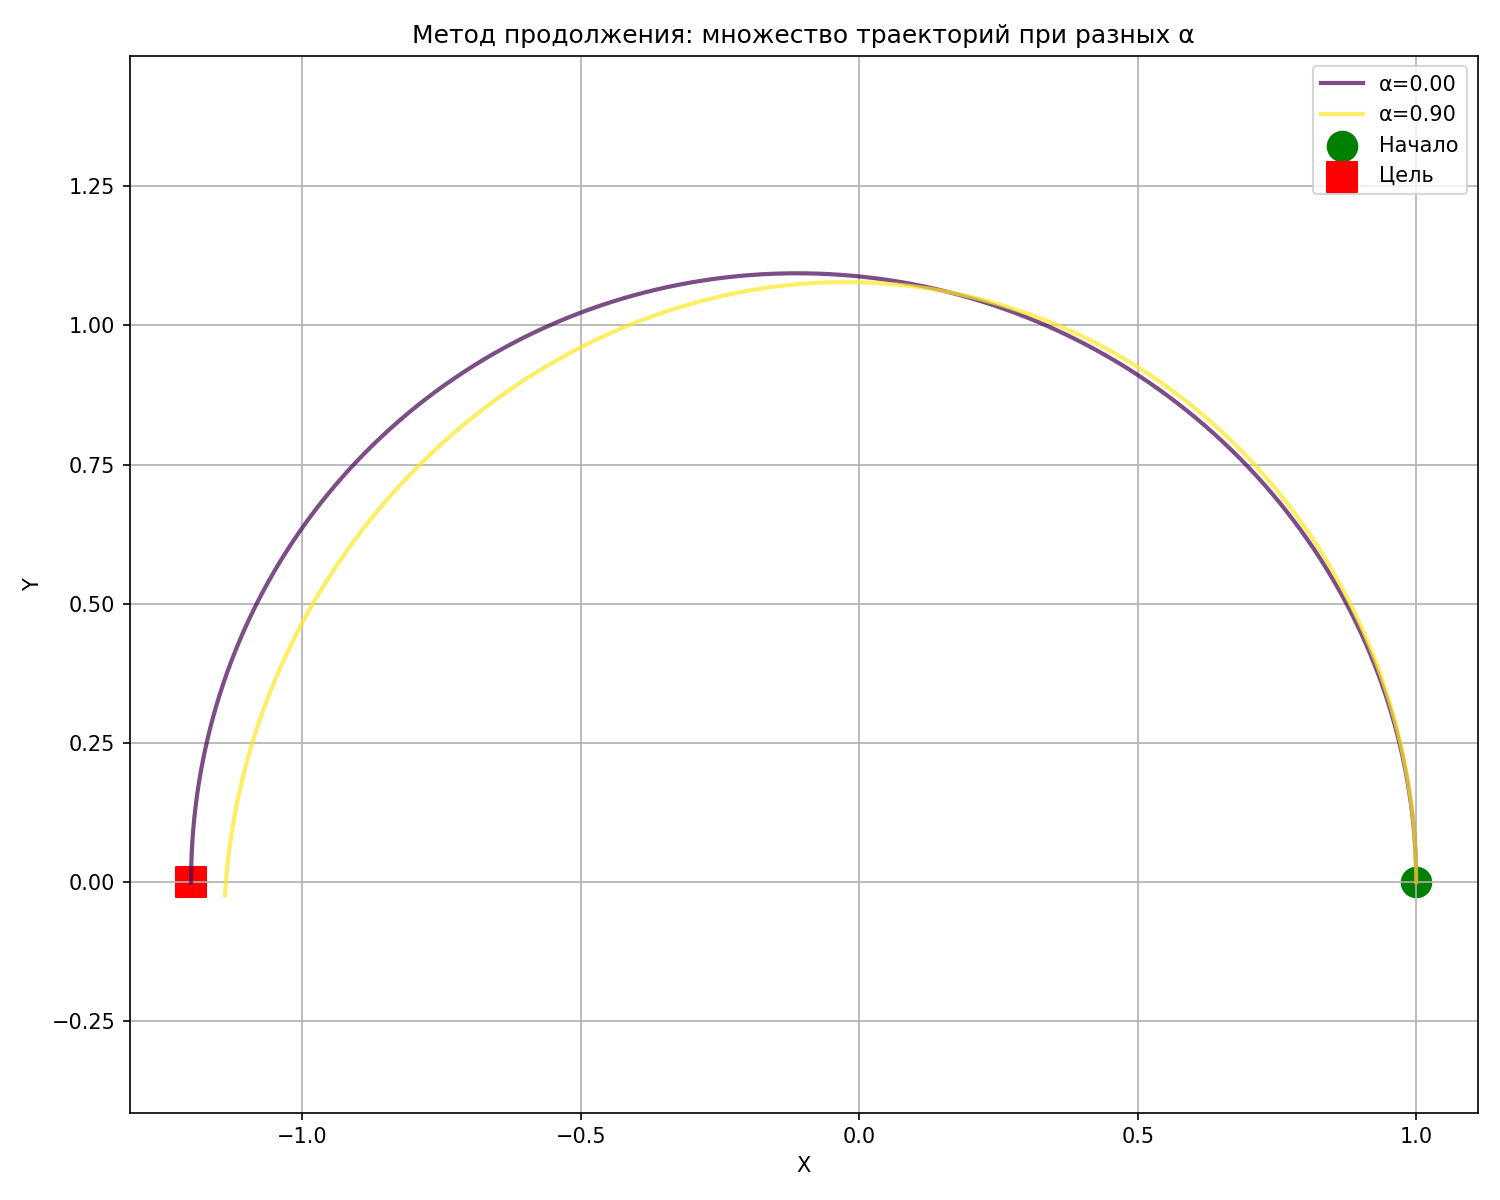
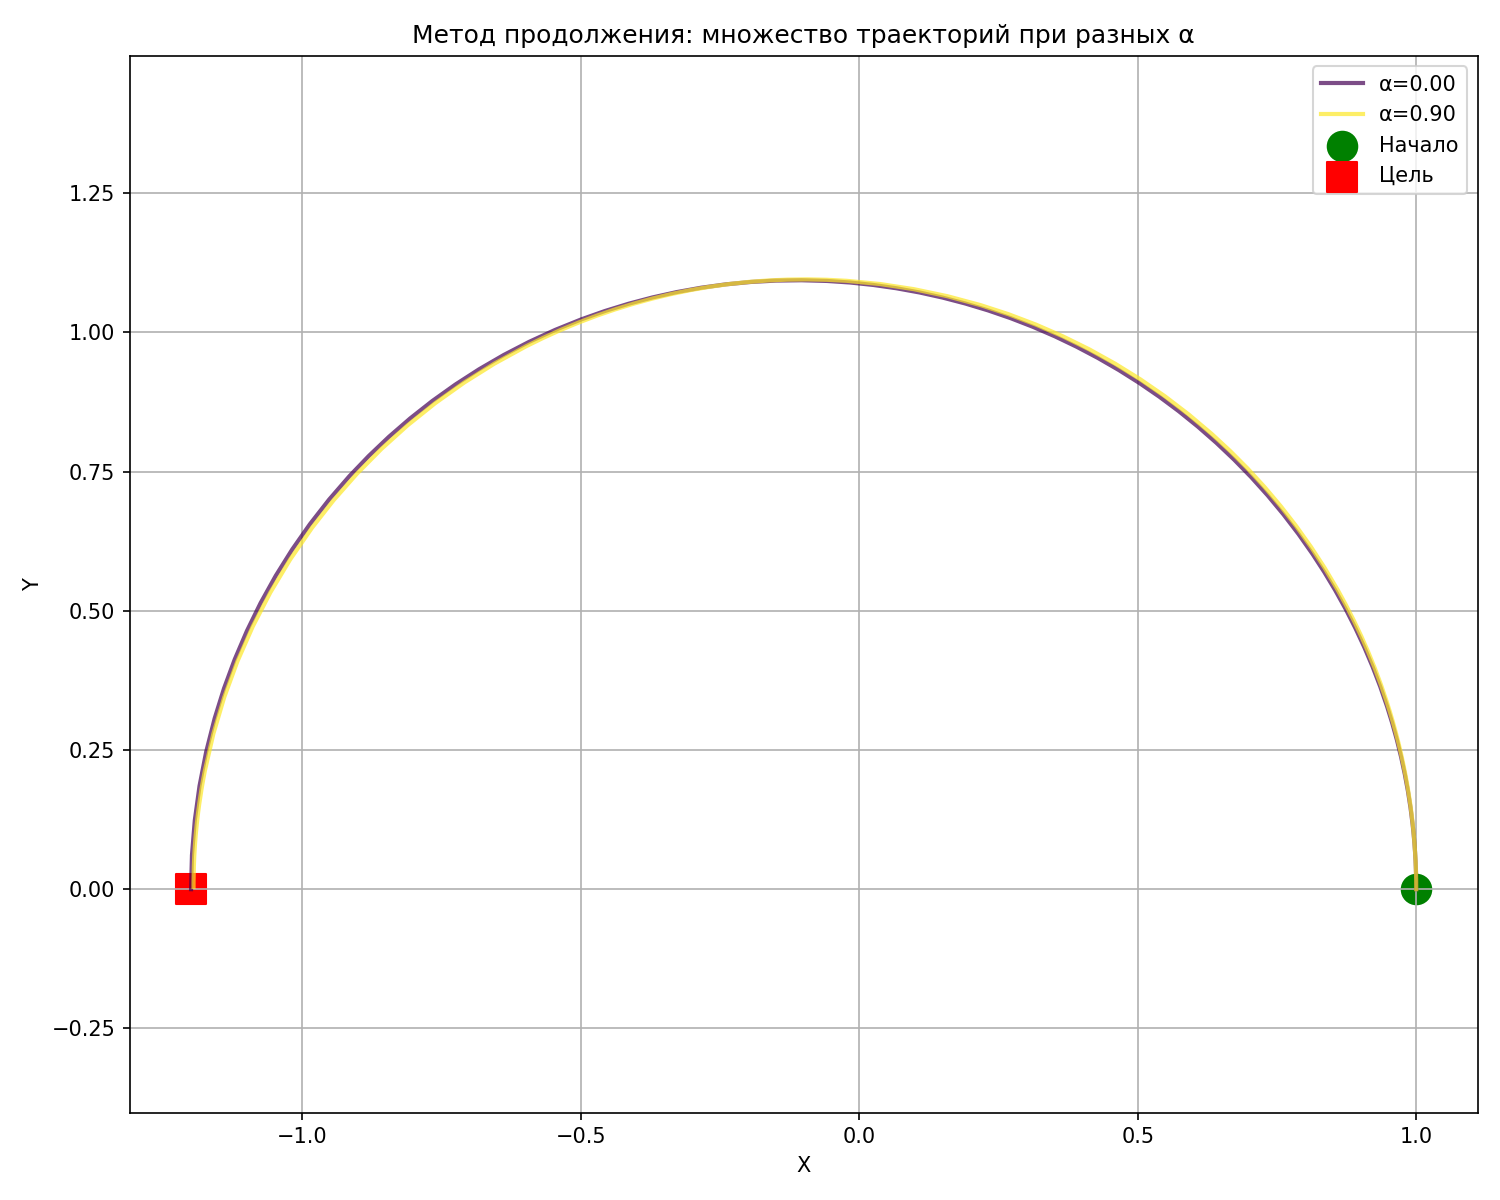
added new result_traj.py with new loss

diff --git a/result_traj.py b/result_traj.py
@@ -2,7 +2,7 @@ import numpy as np
 import math
 import logging
 from scipy.integrate import solve_ivp
-from scipy.optimize import minimize
+from scipy.optimize import minimize, least_squares
 import matplotlib.pyplot as plt
 from approximations import T_a, get_initial_adjoint
 
@@ -38,7 +38,7 @@ class OptimalControlSolver:
 
         elif self.func_type == 'mixed':
 
-            if self.alpha > 0.95: 
+            if self.alpha > 0.95:
                 return self.a_max * pv / pv_norm if pv_norm > 1e-12 else np.zeros(3)
 
             if abs(self.alpha) < 1e-10:
@@ -81,13 +81,13 @@ class OptimalControlSolver:
             self.system_equations,
             t_span,
             y0,
-            method='RK45',
+            method='LSODA',
             rtol=1e-9,
             atol=1e-12,
-            max_step = 1e-3
         )
         return sol
 
+    
     def loss(self, x):
         pr0 = x[0:3]
         pv0 = x[3:6]
@@ -101,10 +101,9 @@ class OptimalControlSolver:
             self.system_equations,
             [0, self.T],
             y0,
-            method='RK45',
+            method='LSODA',
             rtol=1e-8,
             atol=1e-10,
-            max_step=1e-3
         )
 
         if sol.success:
@@ -113,55 +112,153 @@ class OptimalControlSolver:
             r_res = self.rf - rf
             v_res = self.vf - vf
             residual = np.linalg.norm(np.hstack((r_res, v_res)))
-            
-            # Логгирование значений на каждом шаге
+
             logger.info(f"Невязка: {residual:.6f}, pr_0: [{pr0[0]:.6f}, {pr0[1]:.6f}, {pr0[2]:.6f}], "
                         f"pv_0: [{pv0[0]:.6f}, {pv0[1]:.6f}, {pv0[2]:.6f}], a_max: {a_max:.6f}")
-            
+
             return residual
         else:
             return 1e6
 
+    # векторная невязка
+    def residual_vec(self, x):
+        pr0 = x[0:3]
+        pv0 = x[3:6]
+        a_max = np.clip(x[6], 1e-4, 1.0)
+        self.a_max = a_max
 
-    def solve(self, p0_guess=None, method='Nelder-Mead', options=None):
+        y0 = np.concatenate([self.r0, self.v0, pr0, pv0])
+        sol = solve_ivp(
+            self.system_equations,
+            [0, self.T],
+            y0,
+            method='LSODA',
+            rtol=1e-9,
+            atol=1e-12,
+        )
+
+        if not sol.success:
+            logger.info("solve_ivp не сошёлся")
+            return np.ones(6) * 1e3
+
+        rf = sol.y[0:3, -1]
+        vf = sol.y[3:6, -1]
+
+        r_res = self.rf - rf
+        v_res = self.vf - vf
+        res = np.hstack((r_res, v_res))
+
+        res_norm = np.linalg.norm(res)
+        logger.info(f"Невязка: {res_norm:.6e}, pr0={pr0}, pv0={pv0}, a_max={a_max:.6f}")
+
+        return res
+
+    def solve(self, p0_guess=None, method='SLSQP', options=None):
+        #α = 0
+        if abs(self.alpha) < 1e-12:
+            self.a_max = 0.01
+            logger.info("α = 0 a_max фиксирован = 0.01")
+
+            if p0_guess is None:
+                pr0, pv0 = get_initial_adjoint(0.5, 1.2)
+                p0_guess = np.hstack((pr0, pv0))
+
+            def loss_alpha0(x):
+                pr0 = x[0:3]
+                pv0 = x[3:6]
+
+                y0 = np.concatenate([self.r0, self.v0, pr0, pv0])
+                sol = solve_ivp(
+                    self.system_equations,
+                    [0, self.T],
+                    y0,
+                    method='LSODA',
+                    rtol=1e-9,
+                    atol=1e-12,
+                )
+
+                rf = sol.y[0:3, -1]
+                vf = sol.y[3:6, -1]
+                res = np.hstack((rf - self.rf, vf - self.vf))
+                res_norm = np.linalg.norm(res)
+
+                logger.info(f"[α=0] Невязка: {res_norm:.6e}, "
+                            f"pr0={pr0}, pv0={pv0}")
+
+                return res_norm
+
+            result = minimize(
+                loss_alpha0,
+                p0_guess,
+                method=method,
+                options={'disp': True, 'maxiter': 200}
+            )
+
+            pr0 = result.x[0:3]
+            pv0 = result.x[3:6]
+            self.p0 = np.hstack((pr0, pv0))
+            self.trajectory = self.integrate_trajectory(self.p0)
+
+            logger.info(f"[α=0] Итоговое pr0={pr0}, pv0={pv0}, a_max=0.01\n")
+            return result
+
+        # общий случай
         if p0_guess is None:
             pr_0, pv_0 = get_initial_adjoint(0.5, 1.2)
             a_max_0 = np.linalg.norm(pv_0)
-            p0_guess = np.hstack((pr_0, pv_0, a_max_0))  # добавили a_max
+            p0_guess = np.hstack((pr_0, pv_0, a_max_0))
 
-        if options is None:
-            options = {'disp': False, 'maxiter': 80}
+        logger.info(f"\n=== ШАГ α = {self.alpha:.3f} оптимизируем pr0, pv0, a_max ===")
 
-        result = minimize(
-            self.loss,
+        result = least_squares(
+            self.residual_vec,
             p0_guess,
-            method=method,
-            options=options
+            method='trf',
+            xtol=1e-10,
+            ftol=1e-10,
+            gtol=1e-10,
+            max_nfev=200,
         )
 
-        # читаем оптимальные параметры
         pr0 = result.x[0:3]
         pv0 = result.x[3:6]
         a_max = np.clip(result.x[6], 1e-4, 1.0)
 
         self.a_max = a_max
         self.p0 = np.hstack((pr0, pv0))
-
         self.trajectory = self.integrate_trajectory(self.p0)
-        return result
 
+        logger.info(f"[α={self.alpha:.3f}] Итоговое pr0={pr0}, pv0={pv0}, a_max={a_max:.6f}\n")
+
+        return result
 
     def continuation_method(self, alpha_values, p0_initial=None, a_max_fixed=None):
         results = []
         current_p0 = p0_initial
 
-        for alpha in alpha_values:
+        alphas = list(alpha_values)
+        i = 0
+        while i < len(alphas):
+            alpha = alphas[i]
             self.alpha = alpha
             print(f"α = {alpha:.3f}")
 
             result = self.solve(current_p0)
 
-            print(f"Найдено a_max = {self.a_max:.6f}")
+            # оцениваем невязку для текущего решения
+            x_full = np.hstack((self.p0, self.a_max))
+            err = np.linalg.norm(self.residual_vec(x_full))
+
+            if err > 1e-2 and i > 0:
+                # шаг слишком большой
+                prev_alpha = alphas[i - 1]
+                if abs(alpha - prev_alpha) > 1e-3:
+                    mid = 0.5 * (alpha + prev_alpha)
+                    print(f" невязка {err:.3e} большая")
+                    alphas.insert(i, mid)
+                    continue
+
+            print(f"Найдено a_max = {self.a_max:.6f}, невязка = {err:.3e}")
 
             current_p0 = np.hstack((self.p0, self.a_max))
 
@@ -171,6 +268,7 @@ class OptimalControlSolver:
                 'a_max': self.a_max
             })
 
+            i += 1
 
         return results
 
@@ -185,7 +283,6 @@ class OptimalControlSolver:
             thrust.append(np.linalg.norm(a))
 
         return t, np.array(thrust)
-
 
     def plot_trajectories_2d(self, results, filename='trajectories.png'):
         plt.figure(figsize=(10, 8))
@@ -214,6 +311,7 @@ class OptimalControlSolver:
         plt.savefig(filename, dpi=150)
         print(f"График сохранён: {filename}")
         plt.close()
+
     def plot_thrust_profiles(self, results, filename='thrust_profiles.png'):
         plt.figure(figsize=(10, 6))
 
@@ -236,7 +334,6 @@ class OptimalControlSolver:
         plt.close()
 
 
-
 # пример
 if __name__ == "__main__":
     solver = OptimalControlSolver(
@@ -252,17 +349,17 @@ if __name__ == "__main__":
     rf = np.array([-1.2, 0.0, 0.0])
     vf = np.array([0.0, -1/np.sqrt(1.2), 0.0])
 
-
-    T = 2*np.pi*T_a(0.5,1.2)
+    T = 2*np.pi*T_a(0.5, 1.2)
 
     solver.set_boundary_conditions(r0, v0, rf, vf, T)
-    #alpha_values = np.linspace(0, 0.9, 20)
-    alpha_values = np.linspace(0, 1.0, 20)
+
+    alpha_values = np.linspace(0, 0.9, 100)
 
     results = solver.continuation_method(alpha_values)
     results_sparse = [results[0], results[-1]]
     solver.plot_trajectories_2d(results_sparse, 'continuation_trajectories.png')
     solver.plot_thrust_profiles(results_sparse, 'thrust_profiles.png')
+
     # Берём решение для alpha = 0
     traj0 = results[0]['trajectory']
 
